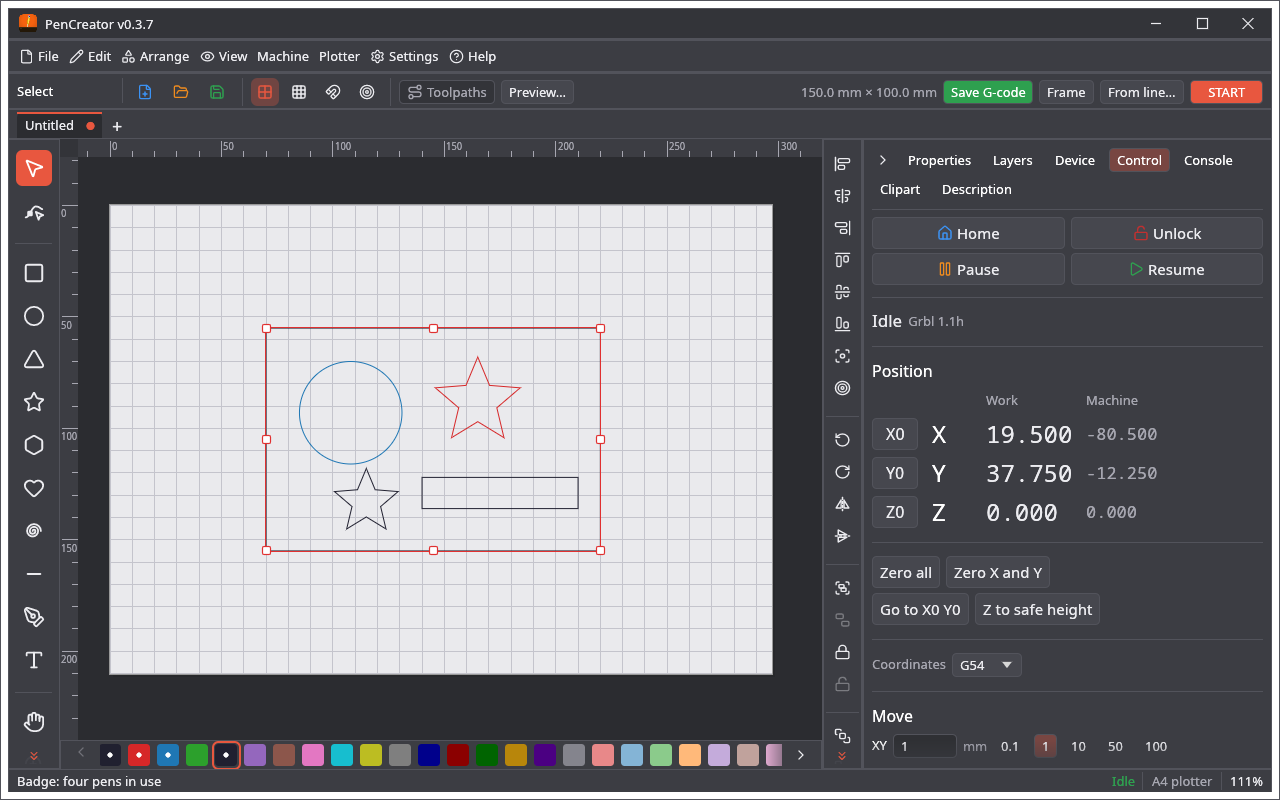
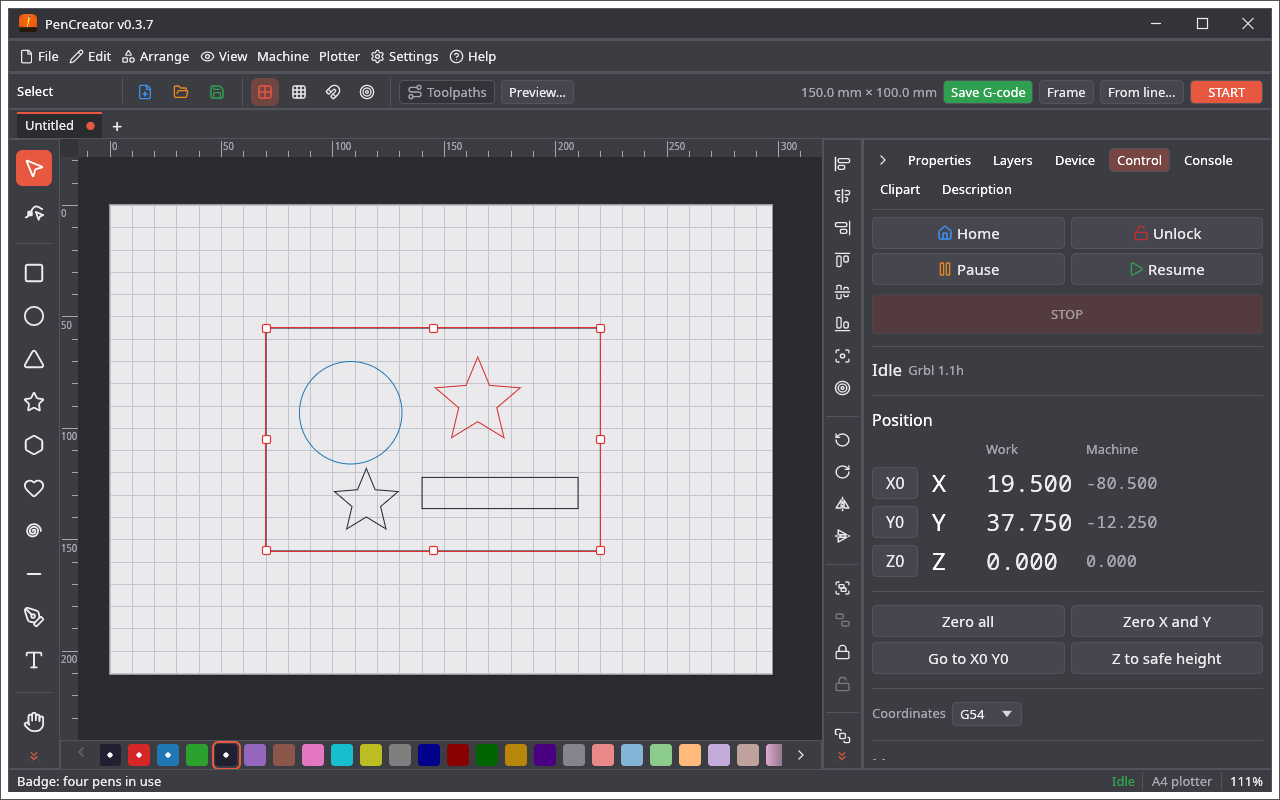
Control tab: Zero buttons in a grid, sections in a new order, STOP live only at work; LightCreator's start / frame options moved to Control; baseCreator v1.20.0

diff --git a/crates/pencreator/src/screenshots.rs b/crates/pencreator/src/screenshots.rs
@@ -444,3 +444,50 @@ mod tab_click_tests {
         assert_eq!(app(&mut h).tab_count(), 1, "the cross closes the tab");
     }
 }
+
+/// The order and the grids of the Control tab, and STOP, which is live only while the machine works.
+#[cfg(test)]
+mod control_layout_tests {
+    use super::*;
+    use egui_kittest::kittest::{NodeT, Queryable};
+
+    fn y(h: &Shot, label: &str) -> f32 {
+        h.get_by_label(label).rect().top()
+    }
+
+    #[test]
+    fn the_control_tab_has_its_sections_in_order_and_its_buttons_in_grids() {
+        let mut h: Shot = Harness::builder().with_accessibility_check(false).with_size([1280.0, 1400.0]).build_ui_state(
+            |ui, state: &mut Option<App>| {
+                let a = state.get_or_insert_with(|| App::build(ui.ctx(), None, false));
+                a.draw(ui);
+            },
+            None,
+        );
+        h.run_steps(2);
+        {
+            let a = app(&mut h);
+            a.devices.clear();
+            a.devices.push(crate::device::Device::dummy());
+            a.use_dummy_device();
+            a.new_design();
+            a.side_tab = crate::SideTab::Control;
+            a.machine.connected = true;
+        }
+        h.run_steps(4);
+        // Position, then the zero buttons, then Move above the jog buttons, Speed under them, .
+        let order = ["Position", "Move", "Speed"];
+        for w in order.windows(2) {
+            assert!(y(&h, w[0]) < y(&h, w[1]), "{} must be above {}", w[0], w[1]);
+        }
+        // The four zero buttons are a grid of 2 × 2.
+        assert_eq!(y(&h, "Zero all"), y(&h, "Zero X and Y"));
+        assert_eq!(y(&h, "Go to X0 Y0"), y(&h, "Z to safe height"));
+        assert!(y(&h, "Zero all") < y(&h, "Go to X0 Y0"));
+        // STOP: not live while nothing works, live at work.
+        assert!(h.get_by_label("STOP").accesskit_node().is_disabled());
+        app(&mut h).machine.state = "Run".into();
+        h.run_steps(3);
+        assert!(!h.get_by_label("STOP").accesskit_node().is_disabled());
+    }
+}

diff --git a/crates/pencreator/src/main.rs b/crates/pencreator/src/main.rs
@@ -870,6 +870,11 @@ impl App {
                 egui::ScrollArea::vertical().auto_shrink([false, false]).show(ui, |ui| {
                     self.quick_row(ui);
                     ui.add_space(4.0);
+                    // STOP is live only while the machine works (a job, a jog, homing, a held move).
+                    if control_ui::stop_button(ui, self.machine.working()) {
+                        self.abort_job();
+                    }
+                    ui.add_space(4.0);
                     ui.separator();
                     ui.add_space(4.0);
                     let c = ControlCtx { control: &self.device.control, safe_z, tool_diameter: 0.0, job_box, probe: false, travel, spindle: None, zeroing: true, z_axis: true, hold_to_move: true };
@@ -1840,7 +1845,7 @@ mod tests {
         a.new_tab();
         assert_eq!((a.tab_count(), a.tabs_state.active), (3, 2));
         let ctx = egui::Context::default();
-        let mut press = |a: &mut App, key: egui::Key| {
+        let press = |a: &mut App, key: egui::Key| {
             let ev = egui::Event::Key { key, physical_key: Some(key), pressed: true, repeat: false, modifiers: egui::Modifiers::COMMAND };
             let mut out = ctx.run_ui(egui::RawInput { events: vec![ev], ..Default::default() }, |ui| a.shortcuts(ui.ctx()));
             out.textures_delta.clear();

diff --git a/FEATURES.md b/FEATURES.md
@@ -7,7 +7,7 @@
 * **The plotter:** a GRBL controller on a serial port or a network socket (set in the device: port, baud rate, streaming, homing or clearing an alarm after connecting); Connect, Home, Unlock, Pause / Resume, the state and position, a **Console** tab (the traffic with the controller, a line to send a command); Frame (the pen goes round the box of the drawing, lifted), Start and Stop of the job and Save G-code on the control bar. The Toolpaths button draws the paths over the work area; Camera view shows the live camera.
 * **Plot and G-code:** strokes in the order that shortens the moves with the pen up, fill lines that zigzag and leave holes empty, a preview window (zoom, pan, an animation with play, pause, speed and repeat, length, pen lifts, time) and G-code for GRBL (`M0` to change the pen between layers, the machine zero by corner). Pictures cannot be drawn and are reported.
 * **Tabs:** every open drawing has a tab above the work area (File → New and Open make one, up to 10; a project that is open is shown, a blank tab is used as it is). A dot marks a tab with unsaved work, the cross closes it (asking Save, Discard or Cancel when there is unsaved work), a middle click closes it too. Every tab with unsaved work has its own recovery file, and after a crash the start screen offers to recover them all, each in a tab. Closing the program asks about each tab with unsaved work in turn: the tab is shown, you answer, it is closed, the next one follows; Cancel stops the closing. Ctrl+1 … Ctrl+9 and Ctrl+0 show the tabs, Ctrl+W closes the shown one (the last tab closes the program).
-* **Device and Control tabs:** under the connection and the position (a line between), Home, Unlock, Pause and Resume are a block of 2 × 2 with icons (Home blue, Unlock red, Pause orange, Resume green); the same block is at the top of the Control tab, above the position.
+* **Device and Control tabs:** under the connection and the position (a line between), Home, Unlock, Pause and Resume are a block of 2 × 2 with icons (Home blue, Unlock red, Pause orange, Resume green); the same block is at the top of the Control tab, above the position, and under them a wide STOP button that is live only while the machine works. The Zero buttons are a grid of 2 × 2, and the sections run: position, zero, Move, the jog buttons, Speed.
 * **Project file:** `.cre`, shared with LightCreator and MillCreator: the drawing, the description, the `pen` section (layers and the plotter it was made for, with a warning when it is opened for another sheet size) and the sections of other programs, which are kept as they were.
 * The window of LightCreator's look: own frame and title bar, start screen, control bar, status bar, a Properties tab, the clipart gallery (310 included pictures, your own, online search), a Description tab, the colour schemes, fonts and 30 languages (PenCreator's own texts too).
 * Reading SVG, PDF and Illustrator (PDF-compatible) files and LightBurn projects (`.lbrn2`: shapes, text outlines, bitmaps) and UGS Designer designs (`.ugsd`: pockets are filled, the rest is outlined) into a scene of shapes.
